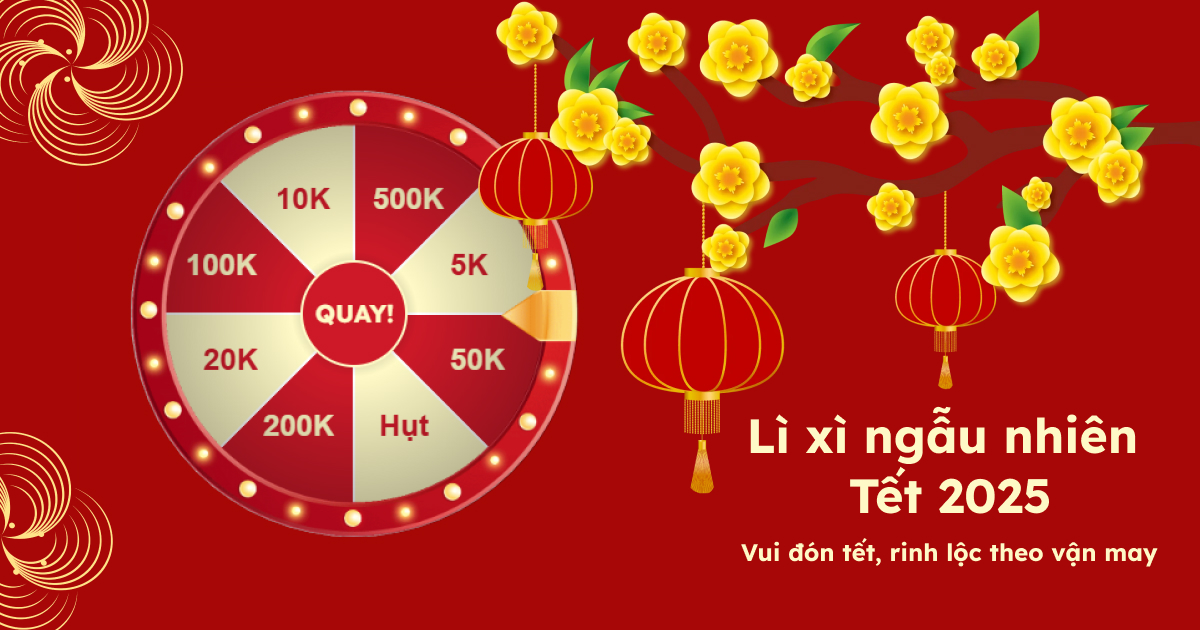
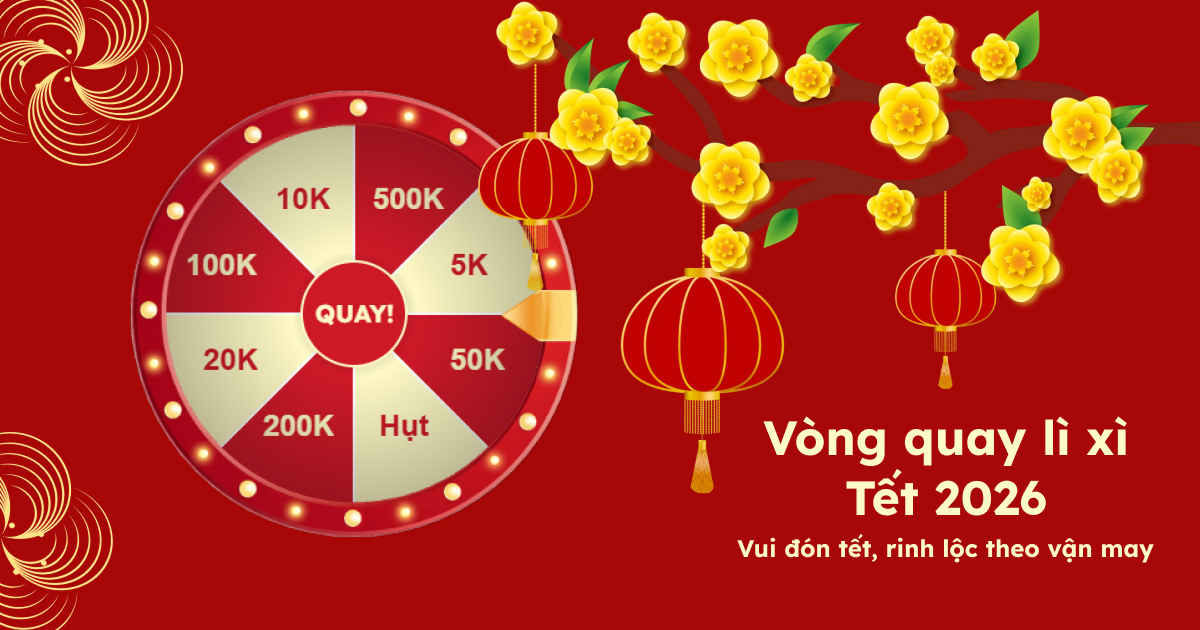
update trong đêm 30 tết

Changed region(s): [[0.6167, 0.6333, 0.9558, 0.8143], [0.6167, 0.8444, 0.9867, 0.9048]]

diff --git a/index.html b/index.html
@@ -1,11 +1,11 @@
-<!DOCTYPE html>
+<!doctype html>
 <html lang="en">
   <head>
     <meta charset="UTF-8" />
     <link rel="icon" type="image/x-icon" href="/favicon.ico" />
     <meta name="viewport" content="width=device-width, initial-scale=1.0" />
     <!-- HTML Meta Tags -->
-    <title>Lì xì ngẫu nhiên 2025 ❤</title>
+    <title>Lì xì ngẫu nhiên 2026 ❤</title>
     <meta
       name="description"
       content="Lì xì theo vòng quay may mắn được làm bởi Hoàng Khôi (khoidh24) 🎉"
@@ -14,7 +14,7 @@
     <!-- Open Graph Meta Tags -->
     <meta property="og:url" content="https://chuc-tet.vercel.app/" />
     <meta property="og:type" content="website" />
-    <meta property="og:title" content="Lì xì ngẫu nhiên 2025 ❤" />
+    <meta property="og:title" content="Lì xì ngẫu nhiên 2026 ❤" />
     <meta
       property="og:description"
       content="Lì xì theo vòng quay may mắn được làm bởi Hoàng Khôi (khoidh24) 🎉"
@@ -30,7 +30,7 @@
     <meta name="twitter:card" content="summary_large_image" />
     <meta property="twitter:domain" content="chuc-tet.vercel.app" />
     <meta property="twitter:url" content="https://chuc-tet.vercel.app/" />
-    <meta name="twitter:title" content="Lì xì ngẫu nhiên 2025 ❤" />
+    <meta name="twitter:title" content="Lì xì ngẫu nhiên 2026 ❤" />
     <meta
       name="twitter:description"
       content="Lì xì theo vòng quay may mắn được làm bởi Hoàng Khôi (khoidh24) 🎉"
